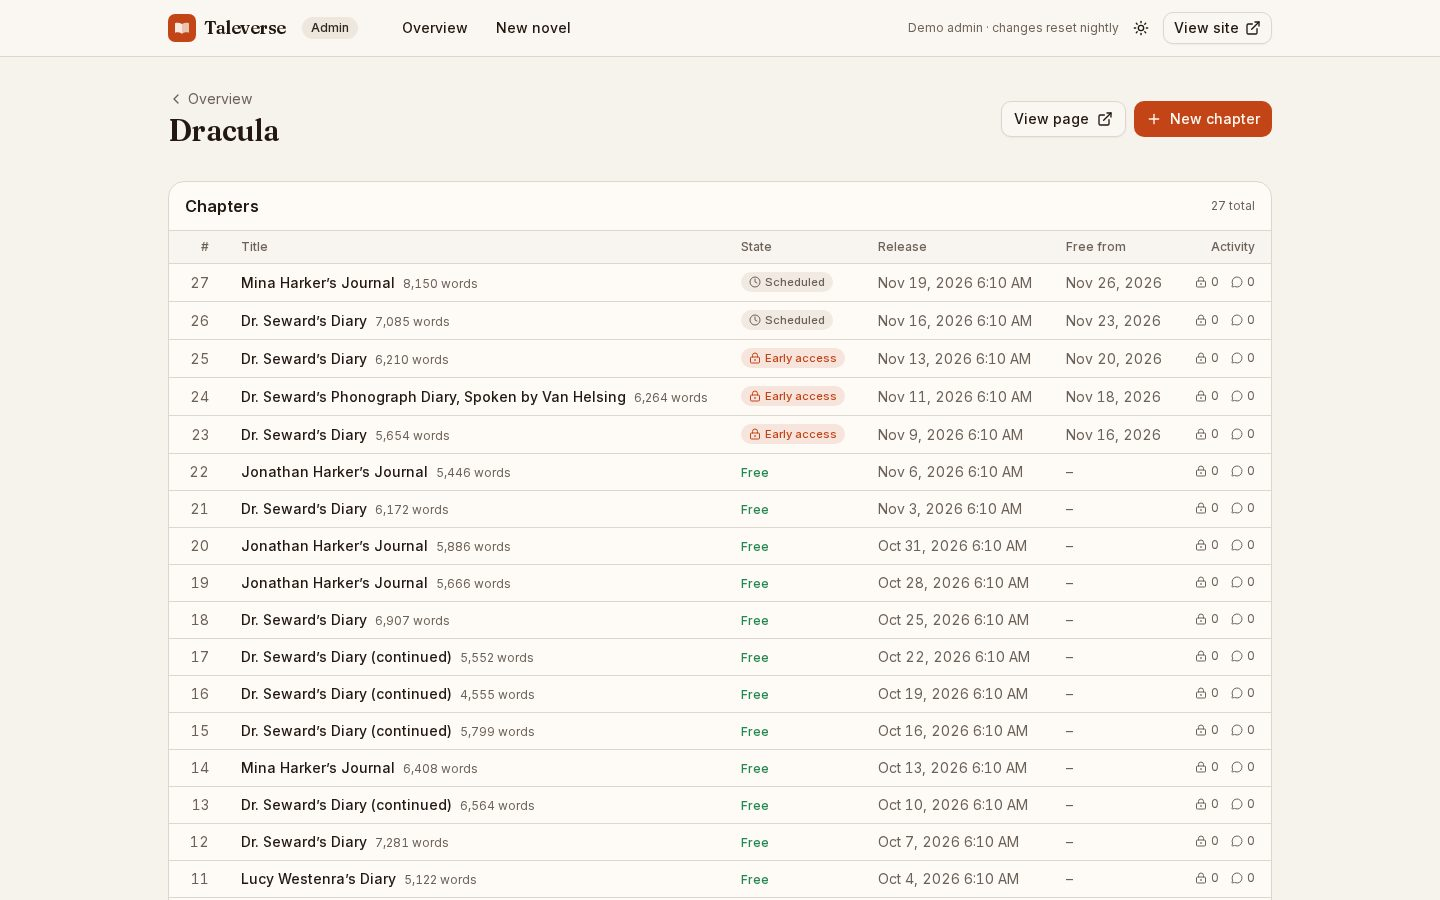
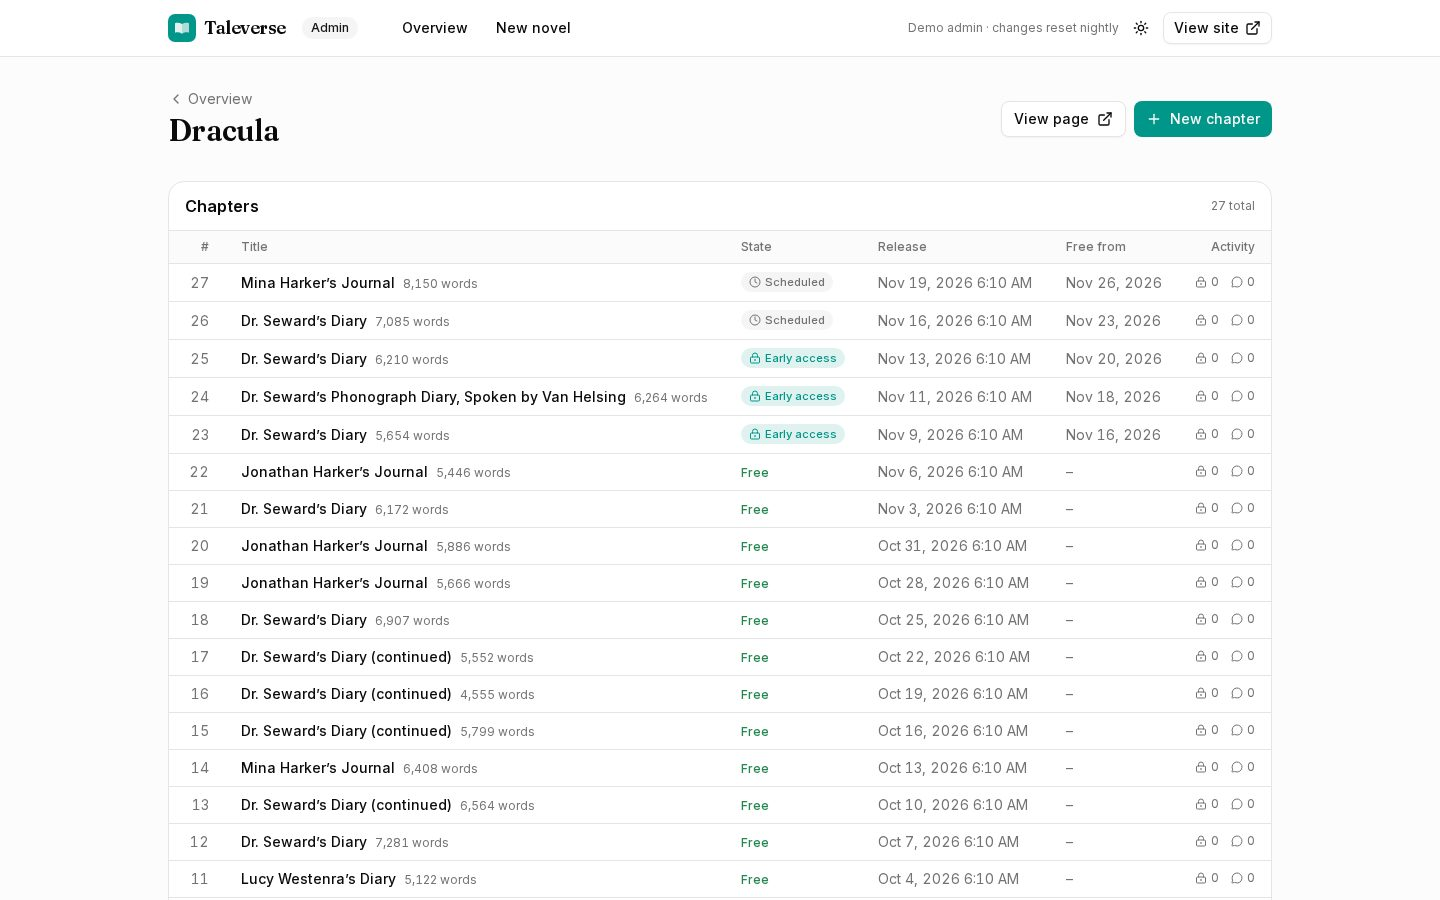
Blend the redesign with the original palette
Bring back the original neutral shadcn greys and use the old logo's teal
as the accent, keeping the new layouts and reading typography. Social
cards and theme-color follow suit. Screenshots re-captured.

diff --git a/src/app/globals.css b/src/app/globals.css
@@ -4,29 +4,30 @@
 @custom-variant dark (&:is(.dark *));
 
 /*
- * Taleverse palette: warm paper and ink, with an ember accent.
+ * Taleverse palette: the original project's neutral shadcn greys with its teal
+ * accent (the old "taleverse.1" logo colour), plus reading-first type.
  * Tokens follow shadcn/ui naming so the ui/ primitives pick them up.
  */
 :root {
-  --radius: 0.75rem;
-  --background: oklch(0.975 0.008 80);
-  --foreground: oklch(0.22 0.02 60);
-  --card: oklch(0.99 0.006 80);
-  --card-foreground: oklch(0.22 0.02 60);
-  --popover: oklch(0.99 0.006 80);
-  --popover-foreground: oklch(0.22 0.02 60);
-  --primary: oklch(0.56 0.17 38);
-  --primary-foreground: oklch(0.985 0.01 80);
-  --secondary: oklch(0.93 0.014 75);
-  --secondary-foreground: oklch(0.28 0.02 60);
-  --muted: oklch(0.94 0.012 75);
-  --muted-foreground: oklch(0.5 0.02 60);
-  --accent: oklch(0.92 0.03 60);
-  --accent-foreground: oklch(0.28 0.03 50);
-  --destructive: oklch(0.55 0.2 25);
-  --border: oklch(0.88 0.014 75);
-  --input: oklch(0.86 0.014 75);
-  --ring: oklch(0.56 0.17 38);
+  --radius: 0.625rem;
+  --background: oklch(1 0 0);
+  --foreground: oklch(0.145 0 0);
+  --card: oklch(1 0 0);
+  --card-foreground: oklch(0.145 0 0);
+  --popover: oklch(1 0 0);
+  --popover-foreground: oklch(0.145 0 0);
+  --primary: oklch(0.6 0.118 184.7); /* teal-600 */
+  --primary-foreground: oklch(0.985 0 0);
+  --secondary: oklch(0.97 0 0);
+  --secondary-foreground: oklch(0.205 0 0);
+  --muted: oklch(0.97 0 0);
+  --muted-foreground: oklch(0.556 0 0);
+  --accent: oklch(0.97 0 0);
+  --accent-foreground: oklch(0.205 0 0);
+  --destructive: oklch(0.577 0.245 27.3);
+  --border: oklch(0.922 0 0);
+  --input: oklch(0.922 0 0);
+  --ring: oklch(0.6 0.118 184.7);
   --success: oklch(0.55 0.12 155);
   --warning: oklch(0.7 0.14 75);
   --reader-bg: var(--background);
@@ -34,24 +35,24 @@
 }
 
 .dark {
-  --background: oklch(0.16 0.012 265);
-  --foreground: oklch(0.93 0.012 80);
-  --card: oklch(0.2 0.014 265);
-  --card-foreground: oklch(0.93 0.012 80);
-  --popover: oklch(0.21 0.014 265);
-  --popover-foreground: oklch(0.93 0.012 80);
-  --primary: oklch(0.7 0.15 45);
-  --primary-foreground: oklch(0.16 0.012 265);
-  --secondary: oklch(0.25 0.014 265);
-  --secondary-foreground: oklch(0.93 0.012 80);
-  --muted: oklch(0.24 0.012 265);
-  --muted-foreground: oklch(0.68 0.015 80);
-  --accent: oklch(0.27 0.02 265);
-  --accent-foreground: oklch(0.93 0.012 80);
+  --background: oklch(0.17 0 0); /* the original 0 0% 6% */
+  --foreground: oklch(0.985 0 0);
+  --card: oklch(0.205 0 0);
+  --card-foreground: oklch(0.985 0 0);
+  --popover: oklch(0.205 0 0);
+  --popover-foreground: oklch(0.985 0 0);
+  --primary: oklch(0.704 0.14 182.5); /* teal-500 */
+  --primary-foreground: oklch(0.17 0 0);
+  --secondary: oklch(0.269 0 0);
+  --secondary-foreground: oklch(0.985 0 0);
+  --muted: oklch(0.269 0 0);
+  --muted-foreground: oklch(0.708 0 0);
+  --accent: oklch(0.269 0 0);
+  --accent-foreground: oklch(0.985 0 0);
   --destructive: oklch(0.65 0.19 25);
-  --border: oklch(0.3 0.014 265);
-  --input: oklch(0.32 0.014 265);
-  --ring: oklch(0.7 0.15 45);
+  --border: oklch(0.269 0 0);
+  --input: oklch(0.3 0 0);
+  --ring: oklch(0.704 0.14 182.5);
   --success: oklch(0.7 0.13 155);
   --warning: oklch(0.8 0.13 80);
 }
@@ -66,8 +67,8 @@
   --reader-fg: oklch(0.3 0.04 55);
 }
 [data-reader-theme="night"] {
-  --reader-bg: oklch(0.16 0.012 265);
-  --reader-fg: oklch(0.86 0.012 80);
+  --reader-bg: oklch(0.17 0 0);
+  --reader-fg: oklch(0.88 0 0);
 }
 
 @theme inline {

diff --git a/src/lib/og.tsx b/src/lib/og.tsx
@@ -11,7 +11,7 @@ export const ogSize = { width: 1200, height: 630 };
 export async function ogCard({ eyebrow, title, subtitle, hue, meta }: { eyebrow: string; title: string; subtitle?: string; hue: number; meta?: string[] }) {
   return new ImageResponse(
     (
-      <div style={{ display: "flex", width: "100%", height: "100%", background: "#14161c", color: "#f1ece4", padding: 64, gap: 56 }}>
+      <div style={{ display: "flex", width: "100%", height: "100%", background: "#0f0f0f", color: "#fafafa", padding: 64, gap: 56 }}>
         <div
           style={{
             display: "flex",
@@ -33,12 +33,12 @@ export async function ogCard({ eyebrow, title, subtitle, hue, meta }: { eyebrow:
           {subtitle && <div style={{ fontSize: 16, letterSpacing: 3, textTransform: "uppercase", opacity: 0.8 }}>{subtitle}</div>}
         </div>
         <div style={{ display: "flex", flexDirection: "column", justifyContent: "center", flex: 1, gap: 20 }}>
-          <div style={{ fontSize: 24, letterSpacing: 6, textTransform: "uppercase", color: "#ee8a55" }}>{eyebrow}</div>
+          <div style={{ fontSize: 24, letterSpacing: 6, textTransform: "uppercase", color: "#2dd4bf" }}>{eyebrow}</div>
           <div style={{ fontSize: 68, lineHeight: 1.02, fontFamily: "Fraunces" }}>{title}</div>
-          {subtitle && <div style={{ fontSize: 32, color: "#b6ad9f" }}>{subtitle}</div>}
-          {meta && meta.length > 0 && <div style={{ display: "flex", gap: 28, fontSize: 26, color: "#b6ad9f", marginTop: 12 }}>{meta.map((m) => <div key={m}>{m}</div>)}</div>}
+          {subtitle && <div style={{ fontSize: 32, color: "#a3a3a3" }}>{subtitle}</div>}
+          {meta && meta.length > 0 && <div style={{ display: "flex", gap: 28, fontSize: 26, color: "#a3a3a3", marginTop: 12 }}>{meta.map((m) => <div key={m}>{m}</div>)}</div>}
           <div style={{ display: "flex", alignItems: "center", gap: 14, marginTop: 36, fontSize: 30, fontFamily: "Fraunces" }}>
-            <div style={{ width: 40, height: 40, borderRadius: 10, background: "#e0703a" }} />
+            <div style={{ width: 40, height: 40, borderRadius: 10, background: "#0d9488" }} />
             Taleverse
           </div>
         </div>

diff --git a/src/components/reader/ReaderShell.tsx b/src/components/reader/ReaderShell.tsx
@@ -227,7 +227,7 @@ export function ReaderShell({ novel, chapter, prev, next, toc, initialSettings, 
                         ["auto", "Auto", "bg-gradient-to-br from-white to-zinc-800"],
                         ["paper", "Paper", "bg-[oklch(0.975_0.008_80)]"],
                         ["sepia", "Sepia", "bg-[oklch(0.93_0.035_80)]"],
-                        ["night", "Night", "bg-[oklch(0.16_0.012_265)]"],
+                        ["night", "Night", "bg-[oklch(0.17_0_0)]"],
                       ] as const
                     ).map(([value, label, swatch]) => (
                       <button

diff --git a/src/app/layout.tsx b/src/app/layout.tsx
@@ -24,8 +24,8 @@ export const viewport: Viewport = {
   // Keeps the editor toolbar above the on-screen keyboard on mobile (BlockNote).
   interactiveWidget: "resizes-content",
   themeColor: [
-    { media: "(prefers-color-scheme: light)", color: "#f7f3ec" },
-    { media: "(prefers-color-scheme: dark)", color: "#14161c" },
+    { media: "(prefers-color-scheme: light)", color: "#ffffff" },
+    { media: "(prefers-color-scheme: dark)", color: "#0f0f0f" },
   ],
 };
 

diff --git a/docs/DECISIONS.md b/docs/DECISIONS.md
@@ -31,4 +31,5 @@ Grilled with Vince on 2026-11-14. Where he stopped the grill and said "just do t
 - **`DEV_AS=reader|admin`** signs in a local dev account when Clerk isn't configured (never in production). It was used to click through every signed-in flow overnight.
 - **Raw SQL for view counts and rating refreshes**, so they don't bump `Novel.updatedAt`, which drives "Recently updated".
 - **Integration tests use `prisma migrate deploy`**, not `migrate reset`: Prisma refuses destructive commands from AI agents. Each test truncates its own tables.
+- **Visual style: a blend (decided by Vince after seeing the rebuild).** The overnight redesign used warm paper with an orange accent. Vince chose to blend it with the original look: the original neutral shadcn greys and the teal of the old "taleverse.1" logo, keeping the new layouts and the Fraunces / Literata reading type. The paper and sepia reader themes remain as reading options.
 - **Per-viewer routes are `force-dynamic`** so a keyless build can't prerender a redirect for `/library`, `/credits` or `/admin`.
